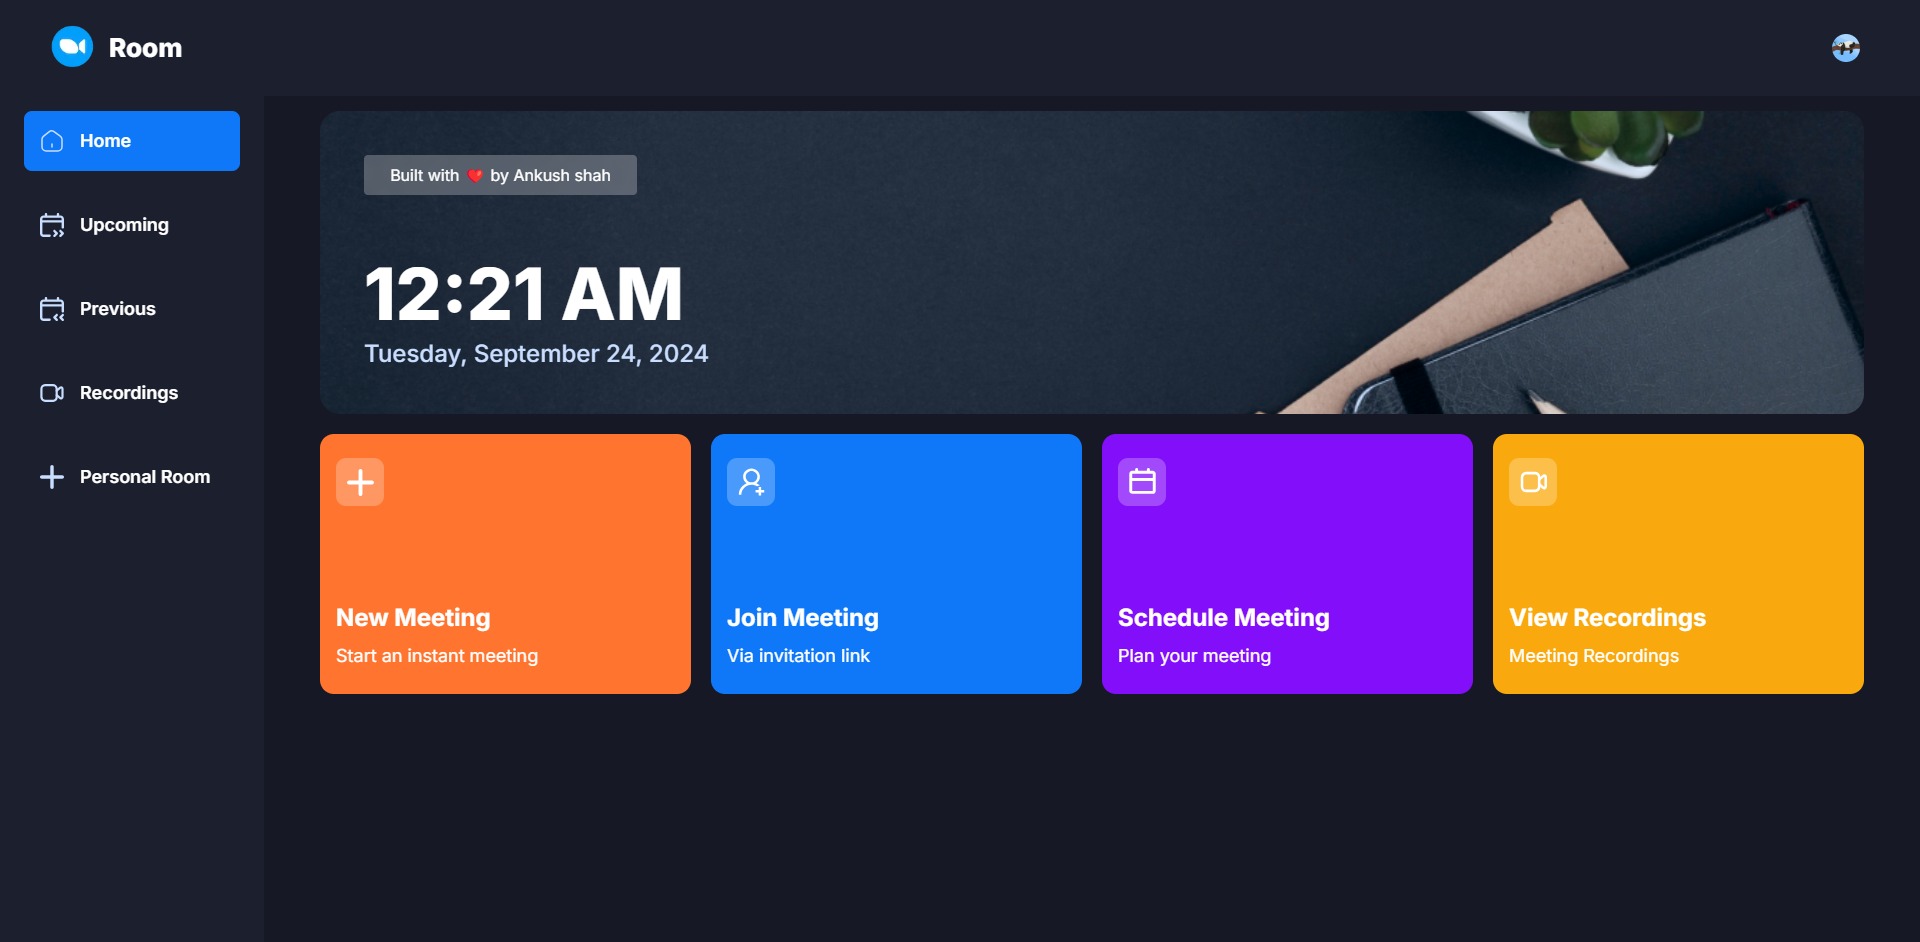
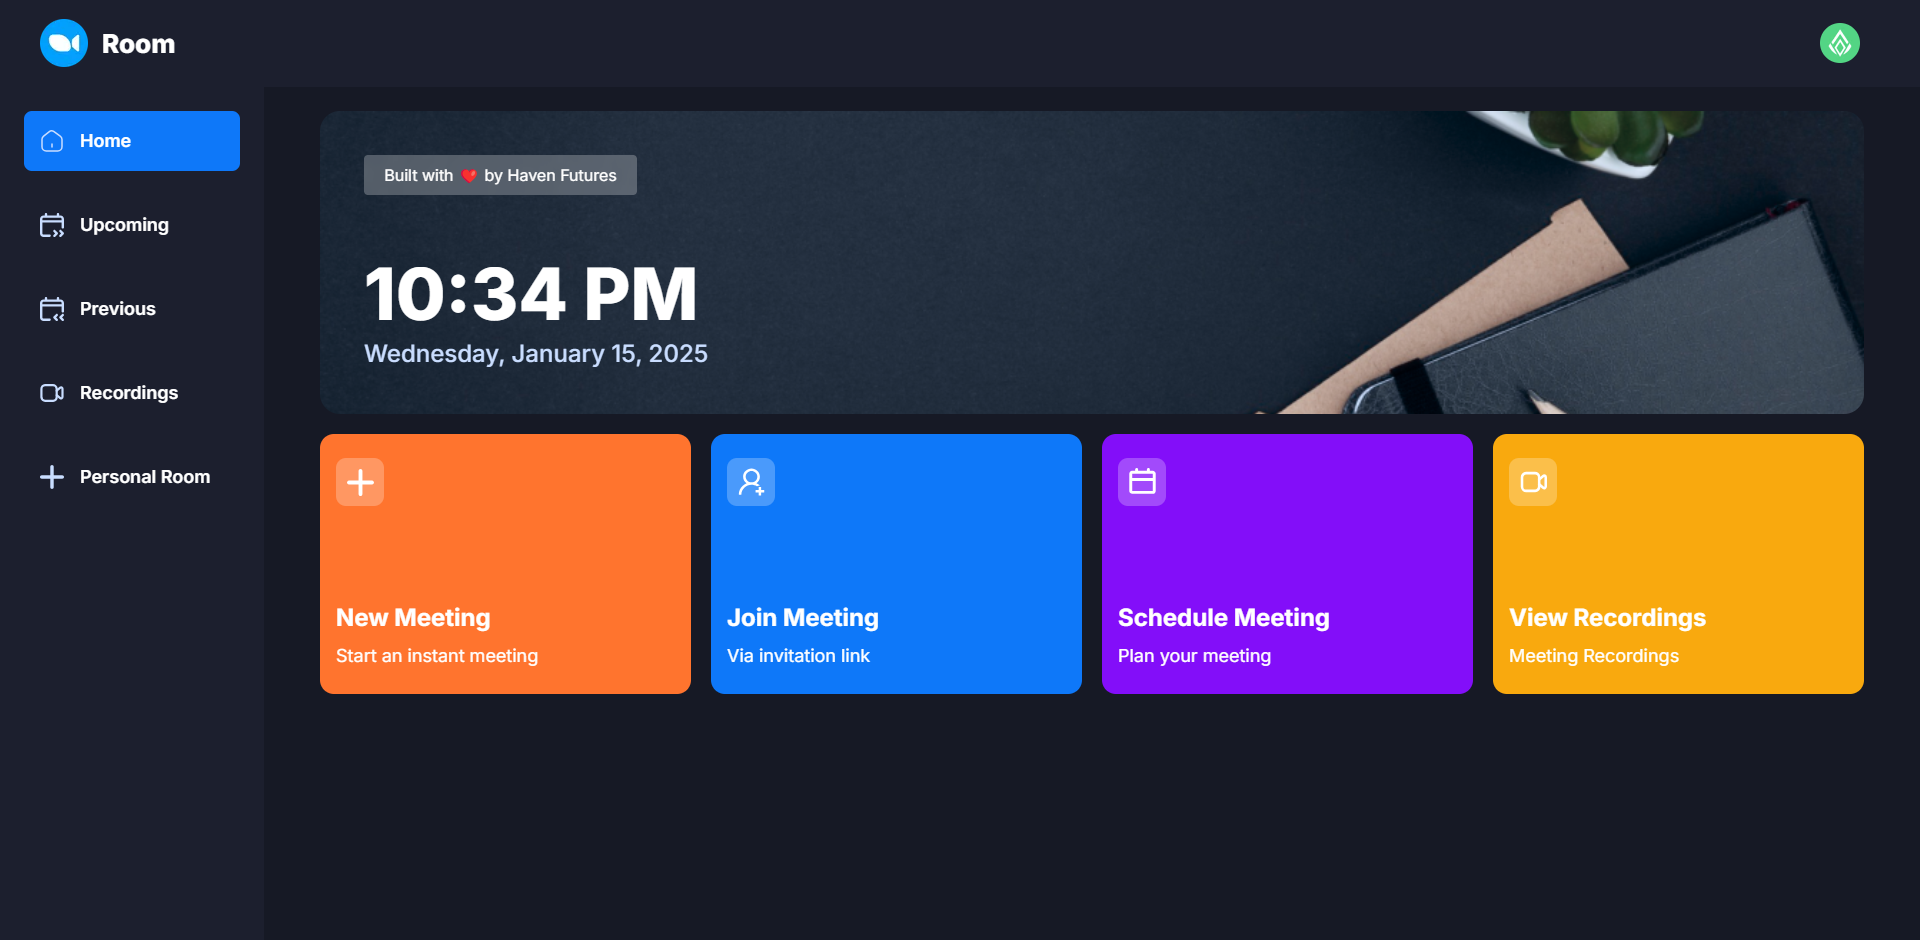
hey

diff --git a/README.md b/README.md
@@ -1,23 +1,21 @@
-<a name="readme-top"></a>
+### Room
 
-# Room - A Video & Audio Meeting Platform
+Replicates Zoom, a widely used video conferencing tool. It enables users to securely login and signup, create meetings and access various meeting functionalities such as recording, screen sharing, managing participants and many more.
+
+### Preview
 
 ![image](public/Preview.png)
 
-## <a name="table">Table of Contents</a>
+### <a name="table">Table of Contents</a>
 
-1. [Introduction](#introduction)
-2. [Tech Stack](#tech-stack)
-3. [Features](#features)
-4. [Getting Started](#getting-started)
-5. [Screenshots](#more-screenshots)
-6. [Feedback](#feedback)
+1. [Tech Stack](#tech-stack)
+2. [Features](#features)
+3. [Getting Started](#getting-started)
+4. [Feedback](#feedback)
+5. [Contributors](#contributors)
 
-## <a name="introduction">Introduction</a>
 
-Built with the latest Next.js and TypeScript, this project replicates Zoom, a widely used video conferencing tool. It enables users to securely log in, create meetings and access various meeting functionalities such as recording, screen sharing, and managing participants.
-
-## <a name="tech-stack">Tech Stack</a>
+### <a name="tech-stack">Tech Stack</a>
 
 - Next.js
 - TypeScript
@@ -26,96 +24,209 @@ Built with the latest Next.js and TypeScript, this project replicates Zoom, a wi
 - shadcn
 - Tailwind CSS
 
-## <a name="features">Features</a>
+### <a name="features">Features</a>
 
-**Authentication**: Implements authentication and authorization features using Clerk, allowing users to securely log in via social sign-on or traditional email and password methods, while ensuring appropriate access levels and permissions within the platform.
+- **Authentication**: Implements authentication and authorization features using Clerk, allowing users to securely log in via social sign-on or traditional email and password methods, while ensuring appropriate access levels and permissions within the platform.
 
-**New Meeting**: Quickly start a new meeting, configuring camera and microphone settings before joining.
+- **New Meeting**: Quickly start a new meeting, configuring camera and microphone settings before joining.
 
-**Meeting Controls**: Participants have full control over meeting aspects, including recording, emoji reactions, screen sharing, muting/unmuting, sound adjustments, grid layout, participant list view, and individual participant management (pinning, muting, unmuting, blocking, allowing video share).
+- **Meeting Controls**: Participants have full control over meeting aspects, including recording, emoji reactions, screen sharing, muting/unmuting, sound adjustments, grid layout, participant list view, and individual participant management (pinning, muting, unmuting, blocking, allowing video share).
 
-**Exit Meeting**: Participants can leave a meeting, or creators can end it for all attendees.
+- **Exit Meeting**: Participants can leave a meeting, or creators can end it for all attendees.
 
-**Schedule Future Meetings**: Input meeting details (date, time) to schedule future meetings, accessible on the 'Upcoming Meetings' page for sharing the link or immediate start.
+- **Schedule Future Meetings**: Input meeting details (date, time) to schedule future meetings, accessible on the 'Upcoming Meetings' page for sharing the link or immediate start.
 
-**Past Meetings List**: Access a list of previously held meetings, including details and metadata.
+- **Past Meetings List**: Access a list of previously held meetings, including details and metadata.
 
-**View Recorded Meetings**: Access recordings of past meetings for review or reference.
+- **View Recorded Meetings**: Access recordings of past meetings for review or reference.
 
-**Personal Room**: Users have a personal room with a unique meeting link for instant meetings, shareable with others.
+- **Personal Room**: Users have a personal room with a unique meeting link for instant meetings, shareable with others.
 
-**Join Meetings via Link**: Easily join meetings created by others by providing a link.
+- **Join Meetings via Link**: Easily join meetings created by others by providing a link.
 
-**Secure Real-time Functionality**: All interactions within the platform are secure and occur in real-time, maintaining user privacy and data integrity.
+- **Secure Real-time Functionality**: All interactions within the platform are secure and occur in real-time, maintaining user privacy and data integrity.
 
-**Responsive Design**: Follows responsive design principles to ensure optimal user experience across devices, adapting seamlessly to different screen sizes and resolutions.
+- **Responsive Design**: Follows responsive design principles to ensure optimal user experience across devices, adapting seamlessly to different screen sizes and resolutions.
 
-and many more, including code architecture and reusability. 
 
-## <a name="getting-started">Getting Started</a>
+### <a name="getting-started">Getting Started</a>
 
-**Make sure you have the following installed on your machine**
+### Prerequisites
 
 - [Git](https://git-scm.com/)
 - [Node.js](https://nodejs.org/en)
 - [npm](https://www.npmjs.com/) (Node Package Manager)
 
-**Cloning the Repository**
+### Cloning
 
-```bash
-git clone https://github.com/theankushshah/room.git
-cd zoom-clone
-```
+1. **Cloning:** 
 
-**Installation**
+    Run the following command in your terminal or command prompt to clone the repository to your local machine:
 
-Install the project dependencies using npm:
+    ```bash
+    git clone https://github.com/theankushshah/room.git
+    ```
 
-```bash
-npm install
-```
+2. **Navigate to the Directory:** 
+    
+    Once cloned, navigate into the project directory using the `cd` command:
 
-**Set Up Environment Variables**
+    ```bash
+    cd room
+    ```
 
-Create a new file named `.env` in the root of your project and add the following content:
+### Download
 
-```env
-NEXT_PUBLIC_CLERK_PUBLISHABLE_KEY=
-CLERK_SECRET_KEY=
+1. **Download ZIP Code folder:** 
 
-NEXT_PUBLIC_CLERK_SIGN_IN_URL=/sign-in
-NEXT_PUBLIC_CLERK_SIGN_UP_URL=/sign-up
+    Unzip the folder in your machine.
 
-NEXT_PUBLIC_STREAM_API_KEY=
-STREAM_SECRET_KEY=
-```
+2. **Navigate to the Downloaded Directory:** 
 
-Replace the placeholder values with your actual Clerk & getstream credentials. You can obtain these credentials by signing up on the [Clerk website](https://clerk.com/) and [getstream website](https://getstream.io/)
+    Open your code editor and open the unzipped folder in it then:
 
-**Running the Project**
+    ```bash
+    cd /path/to/downloaded/folder
+    ```
 
-```bash
-npm run dev
-```
+### Cloning & Download
 
-Open [http://localhost:3000](http://localhost:3000) in your browser to view the project.
+1. **Dependencies Installation:**
 
-## More Screenshots
+    ```bash
+    npm install
+    ```
 
-![image](public/up.png)
+2. **Environment Variables & Database Setup:** 
 
-![image](public/past.png)
+    Create a new file named `.env` in the root of your project and add the following content:
 
-![image](public/record.png)
+    ```env
+    NEXT_PUBLIC_CLERK_PUBLISHABLE_KEY=
+    CLERK_SECRET_KEY=
 
-![image](public/link.png)
+    NEXT_PUBLIC_CLERK_SIGN_IN_URL=/sign-in
+    NEXT_PUBLIC_CLERK_SIGN_UP_URL=/sign-up
 
-## Feedback
+    NEXT_PUBLIC_STREAM_API_KEY=
+    STREAM_SECRET_KEY=
+    ```
+
+    Replace the placeholder values with your actual Clerk & getstream credentials. You can obtain these credentials by signing up on the [Clerk website](https://clerk.com/) and [getstream website](https://getstream.io/)
+    
+3. **Running:**
+
+    ```bash
+    npm run dev
+    ```
+
+    Open [http://localhost:3000](http://localhost:3000) in your browser to view the project.
+
+4. **Start Coding:** 
+
+    Feel free to edit the code according to your requirements. 
+
+5. **Testing**
+
+    ```bash
+    npm test
+    ```
+
+6. **Build for Production**
+
+    ```bash
+    npm run build
+    ```
+
+### Github
+
+1. **Initialize a New Git Repository:**
+
+    ```bash
+    git init
+    ```
+
+2. **Stage and Commit the Code:**
+
+    ```bash
+    git add .
+    git commit -m "Initial commit"
+    ```
+
+3. **Create a New Repository on GitHub:**
+
+    Do not initialize the new repository with a README, .gitignore, or license.
+
+4. **Link Local Repository to GitHub:**
+
+    ```bash
+    git remote add origin https://github.com/username/new-repo.git
+    ```
+
+    Replace https://github.com/username/new-repo.git with your actual repository URL.
+
+5. **Push Code to GitHub:**
+
+    ```bash
+    git branch -m main
+    git pull origin main
+    git push -u origin main
+    ```
+
+6. **Deployment:** 
+    
+    Deploy the application to your preferred hosting platform to make it accessible online.
+
+
+### Forking
+
+1. **Forking:** 
+
+    Run the following command in your terminal or command prompt to fork the repository to your local machine:
+
+    ```bash
+    git clone https://github.com/your-username/room.git
+    ```
+
+2. **Navigate to the Directory:** 
+
+    Once cloned, navigate into the project directory using the `cd` command:
+
+    ```bash
+    cd room
+    ```
+
+3. **Start Coding:** 
+
+    Make the additions & desired changes to the code.
+
+4. **Commit & Push Your Changes to Your Fork:** 
+
+    Once cloned, navigate into the project directory using the `cd` command:
+
+    ```bash
+    git add .
+    git commit -m ""
+    git pull origin main
+    git push -u origin main
+    ```
+
+5. **Create a Pull Request:**
+
+- Go to your forked repository on GitHub
+- Click the "Compare & pull request" button.
+- Review your changes and write a clear description of your contribution.
+- Click "Create pull request"
+
+    **I will review your pull request and decide whether to merge your changes into my repository or not**
+
+### <a name="feedback">Feedback</a>
 
 You might encounter some bugs while using this app. You are more than welcome to contribute. Just submit changes via pull request and I will review them before merging. Make sure you follow community guidelines.
 
-## Developer & Main
+### <a name="contributors">Contributors & Main</a>
 
-- Ankush Shah (ankushsahvlogs@gmail.com) (Main)
+- Ankush Shah (ankushsahvlogs@gmail.com)
+- Haven Futures (support@havenfutures.com) (Main)
 
-Happy coding! 🚀
+Happy coding!
